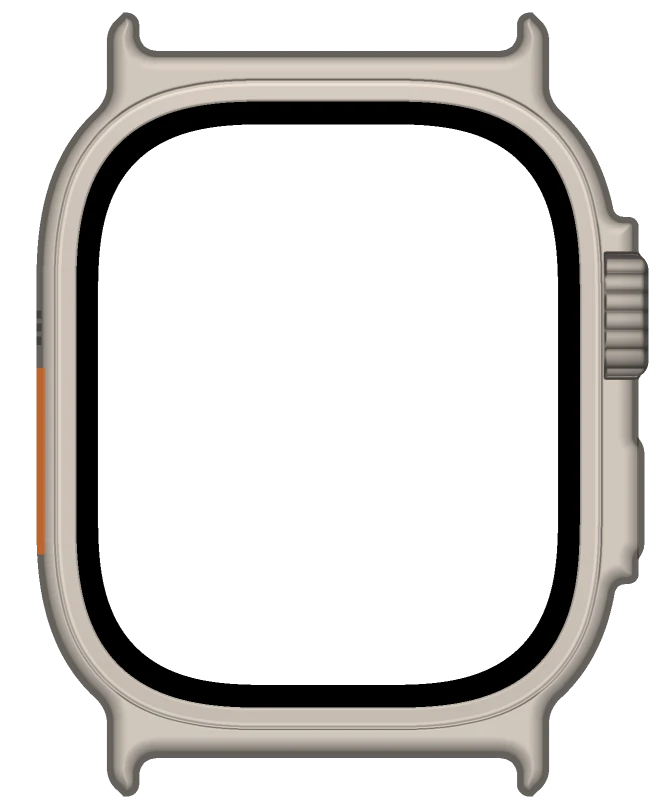
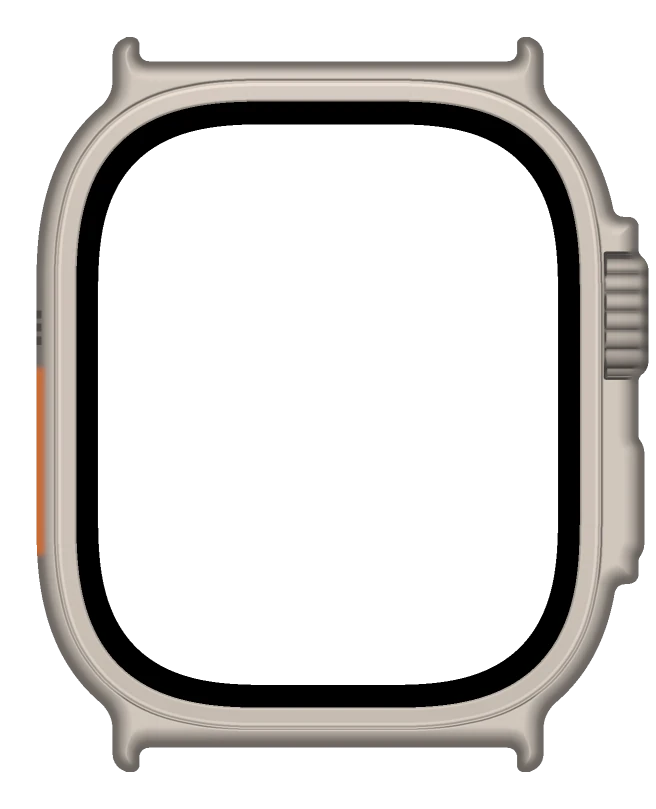
Second Chair: Watch lugs reshaped after Apple's photo; softer, feathered edges
Chunkier posts 1.9 mm wide reaching 1.75 mm past the case edge, the band
coming straight out from under that edge, flush with the posts, a soft hollow
where it tucks in; the case outline and the band's sides are lighter and
feathered instead of a hard dark line.

diff --git a/second-chair/assets/css/base.css b/second-chair/assets/css/base.css
@@ -355,11 +355,11 @@ ul, ol { margin: 0; padding: 0; }
 
 /* ---- Apple Watch Ultra 4: rendered case, band, watchOS Now Playing ---- */
 .watch { container-type: inline-size; position: relative; isolation: isolate; width: 100%; }
-/* The band: Alpine Loop in navy (_docs/devices/band.py), 28 mm wide. It sits behind the case and runs into the slot
-   between the lugs' posts (whose floor is 3.65 mm into the case frame), ending 0.4 mm past it (4.05 mm, 8.64cqw). */
-.watch-band { position: relative; z-index: 0; width: 59.7%; height: 30cqw; margin: 0 auto; background: center / 100% 100% no-repeat; }
-.watch-band--top { margin-bottom: -8.64cqw; background-image: url("../img/devices/watch-band-top.webp"); }
-.watch-band--bottom { margin-top: -8.64cqw; background-image: url("../img/devices/watch-band-bottom.webp"); }
+/* The band: Alpine Loop in navy (_docs/devices/band.py), 27 mm wide, flush with the posts. It sits behind the case and comes out from under
+   its edge between the lugs' posts (4.4 mm into the case frame), ending 0.4 mm behind it (4.8 mm, 10.23cqw). */
+.watch-band { position: relative; z-index: 0; width: 57.6%; height: 30cqw; margin: 0 auto; background: center / 100% 100% no-repeat; }
+.watch-band--top { margin-bottom: -10.23cqw; background-image: url("../img/devices/watch-band-top.webp"); }
+.watch-band--bottom { margin-top: -10.23cqw; background-image: url("../img/devices/watch-band-bottom.webp"); }
 /* Apple Watch Ultra 4, 49 mm, natural titanium: a pre-rendered case (assets/img/devices) from Apple's published
    dimensions and its front-on product photo, with the live screen in its transparent display window
    (32.88 x 40.05 mm in a 46.9 x 57.84 mm frame that includes the crown and the band lugs). */

diff --git a/second-chair/assets/css/home.css b/second-chair/assets/css/home.css
@@ -232,7 +232,7 @@ html:not(.js) .try { display: none; }
   position: absolute; right: 0; top: 0; width: 53cqw;
 }
 /* On the phone's left: between the Mac and the iPhone. */
-.ctl-watch { position: absolute; left: 11cqw; top: 41.64cqw; width: 32.6cqw; z-index: 3; }   /* the display stays where it was before the band and lugs changed */
+.ctl-watch { position: absolute; left: 11cqw; top: 42.16cqw; width: 32.6cqw; z-index: 3; }   /* the display stays where it was before the band and lugs changed */
 
 .np-scrub, .vol-track { position: relative; }
 .vol-track { flex: 1; }

diff --git a/second-chair/_docs/devices/watch.py b/second-chair/_docs/devices/watch.py
@@ -22,12 +22,12 @@ P = dict(
     # crown side, re-measured from Apple's Alpine Loop photo (29 px/mm on the crown's 8.9 mm): guard 11.1-37.3,
     # crown 0.69 mm proud of the guard, side button 26.4-36.0 and only 0.41 mm proud of it
     guard=(11.1, 37.3, 1.35), crown=(13.7, 22.6, 2.05), button=(26.4, 36.0, 1.76), action=(21.9, 35.2),
-    # band lugs (horns), measured from Apple's front-on Alpine Loop photo at ~17.2 px/mm (body 41.7 mm = 718 px):
-    # 31.6 mm across, rising 3.5 mm above the body's top and below its bottom: two posts either side of a 27 mm
-    # slot for the band, whose floor is a straight bridge 0.75 mm above the body line; outer corners r 2.0, inner
-    # corners r 0.9. Each post flows into the body (and the slot's floor) through a concave
-    # fillet: 2.4 mm on the shoulder outside, 1.2 mm inside, where the case's edge curves up to meet the band.
-    lug_w=31.6, lug_h=3.5, lug_r=2.0, lug_r_in=0.9, slot_w=27.0, lug_fillet=2.4, slot_fillet=1.2, slot_floor=0.75,
+    # band lugs, measured from Apple's front-on Alpine Loop photo at ~17.2 px/mm (body 41.7 mm = 718 px): the band
+    # (27 mm slot) comes straight out from under the case's edge on the body line; either side, a chunky post 1.9 mm
+    # wide reaches 1.75 mm past that edge and ends in a rounded nub (outer corner r 1.3, inner r 0.5). The post's
+    # inner face meets the case edge in a small concave curve (r 0.45) with a dark hollow where the band tucks in;
+    # outside, the post flows into the case's shoulder through a 2.4 mm fillet.
+    lug_w=30.8, lug_h=1.75, lug_r=1.3, lug_r_in=0.5, slot_w=27.0, lug_fillet=2.4, slot_fillet=0.45, slot_floor=0.0,
 )
 ENV = dict(front=0.717, front_pow=0.318, soft=0.173, soft_el=0.537, soft_w=0.343, below=0.47, side=0.265, back=0.153, lip_tilt=0.078, roll_R=1.509, groove=0.067,
            f0=(0.84, 0.75, 0.665), polish=1.22, brush=0.05, roll_h=1.5)   # fitted to Apple's photo (fit.py)
@@ -145,6 +145,20 @@ def render(scale=7.388, ss=3, margin=6.0, screen=None, e=None, out=None, shadow=
     act = case & (X < -P['body_w']/2 + 0.6) & (yt > P['action'][0]) & (yt < P['action'][1])
     orange = np.array([0.80, 0.20, 0.035])
     metal = np.where(act[...,None], orange * (0.55 + 0.6*np.clip(L, 0, 1))[...,None], metal)
+    # the hollow on each post's inner face, where the band tucks in: shade the case close to the slot, beside it
+    slot = (np.abs(X) < P['slot_w']/2) & (np.abs(Y) > P['body_h']/2 + P['slot_floor'])
+    d_slot = cv2.distanceTransform((~slot).astype(np.uint8), cv2.DIST_L2, 5) * px
+    # a soft shadow: light, narrow (falls off over ~0.15 mm) and feathered at its inner edges, no hard boundary
+    feather = sstep(P['slot_w']/2 - 0.9, P['slot_w']/2 - 0.2, np.abs(X)) * sstep(P['body_h']/2 - 0.2, P['body_h']/2 + 0.35, np.abs(Y))
+    metal = metal * (1 - 0.32 * feather * np.exp(-d_slot/0.15) * case)[...,None]
+    # the outline's dark roll-off: lighter, and feathered on its inside rather than stepping up to the lit metal
+    # (16 Nov, after Apple's Alpine Loop photo, whose edges only soften)
+    m3 = case.astype(np.float32)
+    sig = 0.2*S
+    blur = cv2.GaussianBlur((metal*m3[...,None]).astype(np.float32), (0, 0), sig) / np.maximum(cv2.GaussianBlur(m3, (0, 0), sig), 1e-4)[...,None]
+    w_edge = sstep(1.0, 0.35, d_out) * case
+    metal = metal*(1 - w_edge[...,None]) + blur*w_edge[...,None]
+    metal = metal * (1 + 0.22*np.exp(-d_out/0.3)*sstep(0.0, 0.08, d_out)*case)[...,None]
     vent = case & (X < -P['body_w']/2 + 0.35) & (yt > 17.6) & (yt < 20.4) & (np.abs(np.sin((yt-17.6)/2.8*np.pi*3)) > 0.55)
     metal = np.where(vent[...,None], metal*0.40, metal)
     img = metal

diff --git a/second-chair/_docs/devices/band.py b/second-chair/_docs/devices/band.py
@@ -4,7 +4,7 @@ Alpine Loop is a two-layer textile knit from two yarns: seen front-on it's fine 
 alternately left and right in narrow columns (a chevron, or herringbone, texture), the rows alternating between the
 two yarn colours so the band reads as a speckled, heathered single colour. No edge stitching (that's Trail Loop).
 
-Size and placement (watch.py, base.css): 28 mm wide, behind the case, so it disappears into the slot between the
+Size and placement (watch.py, base.css): 27 mm wide (the slot's width, flush with the posts), behind the case, so it disappears into the slot between the
 lugs' posts; its free end is cut across with slightly rounded corners and fades darker, as the band curves away
 around the wrist.
 
@@ -13,7 +13,7 @@ around the wrist.
 import numpy as np
 from PIL import Image
 
-W, H = 644, 330               # 28 x 14.4 mm (59.7% of the watch's width x 30cqw), ~23 px/mm
+W, H = 620, 330               # 27 x 14.4 mm (57.6% of the watch's width x 30cqw), ~23 px/mm
 SS = 3
 rng = np.random.default_rng(11)
 w, h = W * SS, H * SS
@@ -39,8 +39,9 @@ yarn = np.where(((row % 2) == 0)[..., None], yarn_a, yarn_b)
 c = yarn * (1 + .07 * tone[..., None]) * (.5 + .7 * bump[..., None])   # dark gaps between stitches
 
 # The band's thick, rounded edges and its curve over the wrist: darker towards the sides.
-edge = np.clip(np.minimum(u, 1 - u) / .035, 0, 1)
-c = c * (.55 + .45 * edge ** .7)[..., None] * (1 - .18 * (2 * u - 1) ** 6)[..., None]
+edge = np.clip(np.minimum(u, 1 - u) / .07, 0, 1)
+edge = edge * edge * (3 - 2 * edge)                         # feathered, not a hard line
+c = c * (.78 + .22 * edge)[..., None] * (1 - .14 * (2 * u - 1) ** 6)[..., None]
 
 # Into the slot: the band darkens over its last ~1.2 mm, most of it hidden behind the slot's floor.
 mm = h / 14.4
